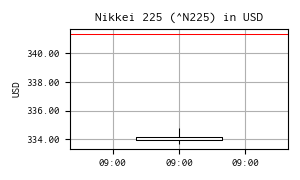
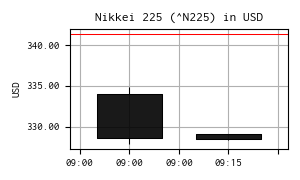
update

diff --git a/modules/env.py b/modules/env.py
@@ -54,13 +54,13 @@ class TransactionManager:
         """
         確定損益が 0 の場合のペナルティ
         """
-        self.penalty_zero_profit = -0.5
+        self.penalty_zero_profit = -0.75
         """
         含み損益の保持のカウンター
         含み損益のインセンティブ・ペナルティ比率
         """
         self.count_unreal_profit = 0
-        self.ratio_unreal_profit = 0.00005
+        self.ratio_unreal_profit = 0.00001
 
     def add_transaction(self, t: float, transaction: str, price: float, profit: float = np.nan):
         self.dict_transaction["注文日時"].append(self.get_datetime(t))

diff --git a/eval_inference_sb3.py b/eval_inference_sb3.py
@@ -98,8 +98,8 @@ if __name__ == "__main__":
 
     # 推論用データ
     # file = "ticks_20250819.xlsx"
-    # file = "ticks_20250828.xlsx"
-    file = "ticks_20251006.xlsx"
+    file = "ticks_20250828.xlsx"
+    # file = "ticks_20251006.xlsx"
     code = "7011"
 
     print(f"過去データ {file} の銘柄 {code} について推論します。")
